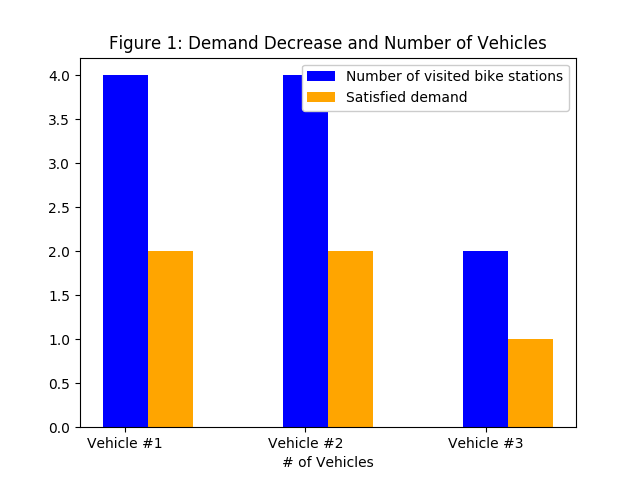
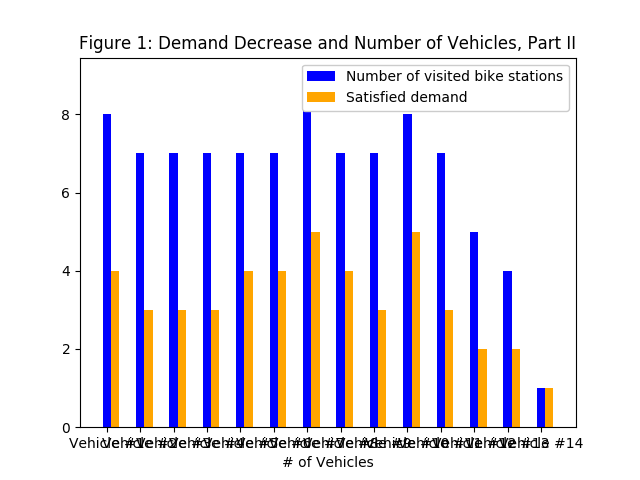
added a more efficient heuristic (same as 1st one)

diff --git a/BRP/greedy/greedy_second.py b/BRP/greedy/greedy_second.py
@@ -2,7 +2,7 @@ from BRP import *
 import BRP
 
 
-class GreedyTraversal:
+class GreedyTraversalSecond:
     def __init__(self, graph, bike_data):
         self.graph = graph
         self.bike_data = bike_data
@@ -14,18 +14,29 @@ class GreedyTraversal:
                             [[0, 0] for _ in range(num_vehicles)]))
         idx = 1
         main_source, source = 'at_depot', 'at_depot'
-        stp = {}
+        dist_prev, stp = {}, {}
 
         # distance from each bike station to each other with depot
+        # O(B*(|E|+|V|)*log(|V|)
         bike_stations = [x for x in self.bike_data['vertices'] if 'b' in x]
-        for b in bike_stations:
-            stp[(main_source, b)] = self.graph.shortestPath(main_source, b)
+        for source in list(bike_stations + [main_source]):
+            (dist, prev) = self.graph.dijkstras(source)
+            dist_prev[source] = (dist, prev)
+            for b in list(bike_stations + [main_source]):
+                if source != b:
+                    stp[(source, b)] = self.graph.getShortestPath(
+                        dist_prev[source][0], dist_prev[source][1], b)
 
+        # Sort based on lowest time for each pair
+        # O((B+depot)^2*log(B+depot))
         min_depot_bike_stations = dict(
             sorted(stp.items(), key=lambda kv: kv[1][1]))
         for k, v in min_depot_bike_stations.items():
-            min_depot_bike_stations[k] = v + [
-                self.bike_data['bike_data'][int(k[1].replace('b', '')) - 1][1]]
+            if k[1] != main_source:
+                min_depot_bike_stations[k] = v + [
+                    self.bike_data['bike_data'][int(k[1].replace('b', '')) - 1][1]]
+            else:
+                min_depot_bike_stations[k] = v + [0]
 
         # choose the min or choose randomly
         above_thresh_b = dict(
@@ -50,10 +61,12 @@ class GreedyTraversal:
 
             # for each vehicle, fill bikes until max cap
             # start from the closest to depot, then closest to bike station
-            for v in above_thresh_b.values():
+            while vehicles[f'v{idx}'][1] < max_station_bikes:
+            # for v in above_thresh_b.values():
                 if v[-1] > min_station_bikes and vehicles[f'v{idx}'][
                     1] < max_station_bikes:
-                    source_to_v = self.graph.shortestPath(source, v[0][-1]) + \
+                    # find the shortest node from source to the remaining stations
+                    source_to_v = stp[(source, v[0][-1])] + \
                                   [self.bike_data['bike_data'][
                                        int(v[0][-1].replace('b', '')) - 1][1]]
                     vehicles[f'v{idx}'].append(source_to_v)
@@ -69,13 +82,17 @@ class GreedyTraversal:
                     source = v[0][-1]
                     num_stations_visited += 1
 
+                # vehicle has reached max capacity, moving on to other deficit stations
+                if vehicles[f'v{idx}'][1] == max_station_bikes:
+                    break
+
             # once vehicle reached full capacity, go fill bikes
             num_stations_satisfied = 0
             for v in below_thresh_b.values():
                 if source != v[0][-1] and v[-1] < min_station_bikes and \
                         vehicles[f'v{idx}'][1] > 0:
-                    source_to_v = self.graph.shortestPath(source, v[0][-1])
-                    v_to_main = self.graph.shortestPath(v[0][-1], main_source)
+                    source_to_v = stp[(source, v[0][-1])]
+                    v_to_main = stp[(v[0][-1], main_source)]
 
                     # get shortest path from u->v, v->depot
                     # choose u->depot if not enough time

diff --git a/part2.py b/part2.py
@@ -24,3 +24,24 @@ if __name__ == '__main__':
         df.index.name = 'Datasets'
         df.loc[idx + 1, '# vehicles required'] = len(min_traversals)
         df.loc[idx + 1, 'Computational times (sec.)'] = round(duration, 4)
+
+        f, ax = plt.subplots(figsize=(20, 5))
+        title = 'Figure 1: Demand Decrease and Number of Vehicles, Part II'
+        plt.title(title)
+        bar_width = 0.25
+        plt.bar(np.arange(len(min_traversals)),
+                [v[-2] for v in min_traversals.values()], bar_width,
+                color='blue')
+        plt.bar(np.arange(len(min_traversals)) + bar_width,
+                [v[-1] for v in min_traversals.values()], bar_width,
+                color='orange')
+        plt.xticks(np.arange(len(min_traversals)),
+                   [f'Vehicle #{x + 1}' for x in range(len(min_traversals))])
+        plt.xlabel('# of Vehicles')
+        leg = ['Number of visited bike stations', 'Satisfied demand']
+        plt.legend(leg, framealpha=1, frameon=True)
+        plt.savefig(f'{ROOT_DIR}/results/results_{idx + 1}_partII.png')
+        plt.clf()
+        print(
+            f'vehicles needed for simulation #{idx + 1}: {len(min_traversals)}')
+    df.to_csv(f'{ROOT_DIR}/results/results_partII.csv')

diff --git a/BRP/greedy/grid_generator.py b/BRP/greedy/grid_generator.py
@@ -150,6 +150,7 @@ class GridGenerator(Generator):
         self.bike_data['edges'] = edges
         self.bike_data['vertices'] = vertices
         self.edges = edges
+        self.vertices = vertices
         self.graph = Graph()
         self.graph.add_weighted(connections=edges)
         self._generate_topology_data()
@@ -166,7 +167,7 @@ class GridGenerator(Generator):
         with open(filename, 'w') as f:
             directed_graph = Graph(directed=True)
             directed_graph.add_weighted(connections=self.edges)
-            f.write(f'{num_vertices} {num_edges}\n')
+            f.write(f"{len(self.vertices)} {len(self.edges)}\n")
             f.write(f'{num_bike_stations_2}\n')
             f.write(f"{','.join(self.bike_stations).replace(',', ' ')}\n")
             f.write(f'{len(directed_graph.graph)}\n')

diff --git a/BRP/greedy/graph.py b/BRP/greedy/graph.py
@@ -7,6 +7,10 @@ class Graph:
         self.weights = defaultdict(set)
         self.directed = directed
 
+    def remove(self, pair):
+        self.graph[pair[0]].remove(pair[1])
+        del self.weights[pair]
+
     def add(self, node1, node2):
         """ Add connection between node1 and node2 vice-versa """
         self.graph[node1].add(node2)
@@ -67,6 +71,16 @@ class Graph:
                     dist[i] = alt
                     prev[i] = u
         return (dist, prev)
+
+    def getShortestPath(self, dist, prev, target):
+        d, p = dist, prev
+        s = []
+        u = target
+        while p[u]:
+            s = [u] + s
+            u = p[u]
+        s = [u] + s
+        return [s, d[s[-1]]]
 
     def shortestPath(self, source, target):
         d, p = self.dijkstras(source)

diff --git a/BRP/__init__.py b/BRP/__init__.py
@@ -2,7 +2,7 @@ import os
 ROOT_DIR = os.path.dirname(os.path.abspath(__file__))
 
 num_test_iterations = 10
-lower_edge_weight, upper_edge_weight = 10, 20
+lower_edge_weight, upper_edge_weight = 1, 10
 
 # params given for part I
 num_bike_stations = 10
